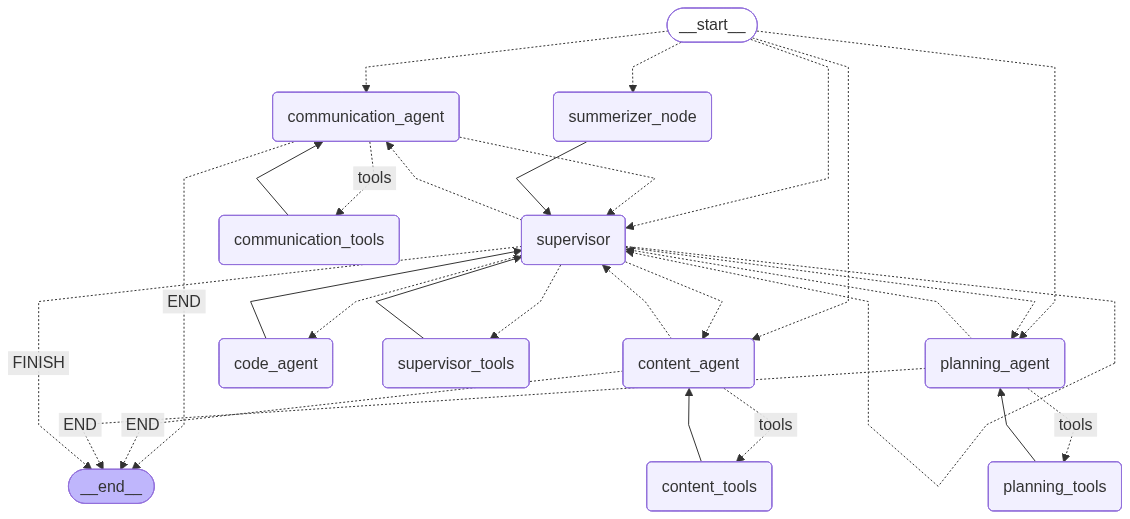
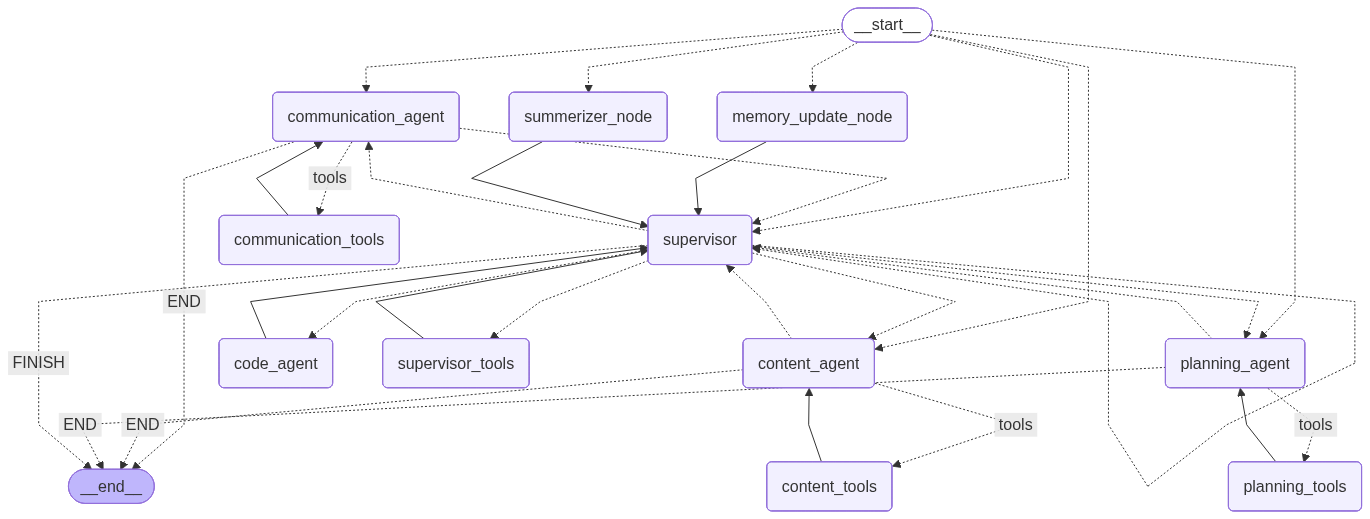
added the memory node while chat starts new day then this activates

diff --git a/core/state.py b/core/state.py
@@ -4,20 +4,16 @@ from pydantic import BaseModel, Field
 from typing_extensions import TypedDict
 from utils.helper import setup_logger, count_tokens
 import time
-import asyncio
+
 from config.settings import DEFAULT_THREAD_ID, MEMORY_DB
 
 logger = setup_logger(__name__)
 
 
-SECONDS_IN_DAY = 86400
-IST_OFFSET = 19800
-
-
 class State(TypedDict):
     messages: Annotated[list, add_messages]
     summary: Optional[str]
-    last_knowledgegraph_timestamp: Optional[float] = 1770195927.8211298
+    last_memory_timestamp: Optional[float] = 1770195927.8211298
     next: Optional[str]
 
 
@@ -74,6 +70,29 @@ def internal_agent_route(state: State) -> str:
 
 
 async def route_start(state: State) -> str:
+
+    last_memory_ts = state.get("last_memory_timestamp")
+
+    should_update_memory = False
+
+    if last_memory_ts is None:
+        logger.info("🆕 New Thread Detected: Initializing memory timestamp.")
+        should_update_memory = True
+    else:
+        now_float = time.time()
+        SECONDS_IN_DAY = 86400
+        IST_OFFSET = 19800
+
+        current_day_ist = int((now_float + IST_OFFSET) // SECONDS_IN_DAY)
+        memory_day_ist = int((last_memory_ts + IST_OFFSET) // SECONDS_IN_DAY)
+
+        if current_day_ist > memory_day_ist:
+            logger.info("📅 New Day Detected: Triggering memory optimization.")
+            should_update_memory = True
+
+    if should_update_memory:
+        return "memory_update_node"
+
     messages = state["messages"]
 
     if len(messages) < 2:
@@ -97,38 +116,6 @@ async def route_start(state: State) -> str:
                     "content_agent",
                 ]:
                     return agent_name
-
-    now_float = time.time()
-    messages = state.get("messages", [])
-    current_day_ist = int((now_float + IST_OFFSET) // SECONDS_IN_DAY)
-
-    # 1. Summary Cleanup Logic
-    last_sum_ts = state.get("last_summary_timestamp")
-    if last_sum_ts is not None:
-        summary_day_ist = int((last_sum_ts + IST_OFFSET) // SECONDS_IN_DAY)
-
-        if current_day_ist > summary_day_ist:
-            if count_tokens(messages[:-15]) > 500:
-                state["summary"] = ""
-                state["number_of_summaries_today"] = 0
-                state["last_summary_timestamp"] = now_float
-                logger.info("🗑️ Cleared old summary: New calendar date detected.")
-
-    # 2. Knowledge Graph Update Logic
-    last_kg_ts = state.get("last_knowledgegraph_timestamp")
-    if last_kg_ts is not None:
-        kg_day_ist = int((last_kg_ts + IST_OFFSET) // SECONDS_IN_DAY)
-
-        if current_day_ist > kg_day_ist:
-            logger.info(
-                "🔄 KnowledgeGraph Updating: Reconciling project data for new local date."
-            )
-            from core.agent import updation_knowledge_graph
-
-            await updation_knowledge_graph(
-                state=state, thread_id=DEFAULT_THREAD_ID, db_path=MEMORY_DB
-            )
-            state["last_knowledgegraph_timestamp"] = now_float
 
     if count_tokens(messages[:-15]) > 8000:
         return "summerizer_node"

diff --git a/utils/helper.py b/utils/helper.py
@@ -1,6 +1,5 @@
 import logging
 import sqlite3
-from config.settings import CHECKPOINT_DB
 import tiktoken
 from datetime import datetime
 from langgraph.checkpoint.sqlite.aio import AsyncSqliteSaver
@@ -8,6 +7,16 @@ import pytz
 
 import re
 import html
+import asyncio
+import aiosqlite
+import sys
+from pathlib import Path
+
+root = Path(__file__).parent.parent
+sys.path.insert(0, str(root))
+
+from config.settings import CHECKPOINT_DB
+from config.settings import DEFAULT_THREAD_ID
 
 
 def clean_email_body(text: str) -> str:
@@ -37,6 +46,36 @@ class AsyncSqliteSaver(AsyncSqliteSaver):
         """Save checkpoint with cleaned messages"""
 
         return await super().aput(config, checkpoint, metadata, new_versions)
+
+
+mock_tool_sets = {"communication": [], "planning": [], "content": [], "supervisor": []}
+
+
+async def get_agent_state(thread_id: str):
+    async with aiosqlite.connect(str(CHECKPOINT_DB)) as conn:
+        checkpointer = AsyncSqliteSaver(conn)
+
+        from core.graph import build_graph
+
+        graph = build_graph(mock_tool_sets, checkpointer)
+
+        config = {"configurable": {"thread_id": thread_id}}
+
+        snapshot = await graph.aget_state(config)
+
+        if not snapshot.values:
+            print("❌ No state found for this thread ID.")
+            return
+
+        values = snapshot.values
+        print("=" * 40)
+        print(f"📊 STATE FOR THREAD: {thread_id}")
+        print("=" * 40)
+        print(f"🕒 Last Memory Timestamp: {values.get('last_memory_timestamp')}")
+        print(f"🧠 Summary: {values.get('summary')}")
+        print(f"📨 Total Messages: {len(values.get('messages', []))}")
+        print(f"🔜 Next Step: {snapshot.next}")
+        print("=" * 40)
 
 
 def count_tokens(messages):
@@ -104,3 +143,7 @@ def delete_thread_from_db(thread_id: str):
 def get_current_time():
     now = datetime.now(pytz.timezone("Asia/Kolkata"))
     return now.strftime("%Y-%m-%d %H:%M:%S IST")
+
+
+if __name__ == "__main__":
+    asyncio.run(get_agent_state(DEFAULT_THREAD_ID))

diff --git a/core/agent.py b/core/agent.py
@@ -12,6 +12,7 @@ import aiosqlite
 from datetime import datetime
 import sys
 from pathlib import Path
+import time
 
 root = Path(__file__).parent.parent
 sys.path.append(str(root))
@@ -40,6 +41,7 @@ def agent_node_factory(llm_with_tools, system_prompt, agent_name: str):
 
         current_time = get_current_time()
 
+        logger.info("\n")
         logger.info("=" * 80)
         logger.info(f"🔄 LLM REQUEST #{request_num}")
         logger.info("=" * 80)
@@ -179,6 +181,30 @@ def agent_node_factory(llm_with_tools, system_prompt, agent_name: str):
     return agent_node
 
 
+def memory_node_factory():
+    async def memory_node(state: State):
+        import time
+        from core.agent import updation_knowledge_graph
+        from config.settings import DEFAULT_THREAD_ID, MEMORY_DB
+
+        now_float = time.time()
+
+        updates = {
+            "summary": "",
+            "number_of_summaries_today": 0,
+            "last_summary_timestamp": now_float,
+        }
+
+        await updation_knowledge_graph(
+            state=state, thread_id=DEFAULT_THREAD_ID, db_path=MEMORY_DB
+        )
+
+        updates["last_memory_timestamp"] = now_float
+        return updates
+
+    return memory_node
+
+
 def code_execution_factory(llm, tool_sets, agent_name: str):
     async def code_executor(state: State):
         current_time = get_current_time()  # system prompt should have this need to do
@@ -300,9 +326,14 @@ async def updation_knowledge_graph(
             f"Extracted candidates for KG update: {json.dumps(candidates_json, indent=2)}"
         )
 
-        entities = candidates_json.get("candidates", {}).get("entities", [])
-        if not entities:
+        if not candidates_json.get("candidates", {}).get(
+            "entities"
+        ) and not candidates_json.get("candidates", {}).get("relationships"):
+            logger.info(
+                "🔍 No valid entities or relationships found. Exiting update process."
+            )
             return
+        entities = candidates_json.get("candidates", {}).get("entities", [])
 
         types_df = kg.search_similar_node(entities)
 
@@ -346,6 +377,7 @@ async def updation_knowledge_graph(
                     relation_type=rel.get("relation_type", "unknown"),
                 )
         logger.info("✅ Knowledge graph update process completed successfully.")
+        kg.visualize()
 
     except Exception as e:
         logger.error(f"Knowledge graph update failed: {e}")

diff --git a/utils/memory_manager.py b/utils/memory_manager.py
@@ -1,4 +1,3 @@
-from core.llm import build_llm
 from langchain_core.messages import HumanMessage, AIMessage, ToolMessage, SystemMessage
 import aiosqlite
 from datetime import datetime
@@ -8,13 +7,30 @@ import os
 import sys
 from pathlib import Path
 
+
 root_dir = Path(__file__).parent.parent
 sys.path.insert(0, str(root_dir))
 
+from core import state
+from core.state import State
 from config.settings import MEMORY_DB
 from utils.helper import count_tokens, setup_logger
 
 logger = setup_logger(__name__)
+
+
+def AgentState(state: State):
+
+    if hasattr(state, "__annotations__"):
+        print("\n🔍 State Structure & Values:")
+        for key, dtype in state.__annotations__.items():
+            current_value = getattr(state, key, "Not Set")
+
+            print(
+                f"   - {key}: {dtype} = {datetime.fromtimestamp(current_value) if isinstance(current_value, float) else current_value}"
+            )
+
+    return state
 
 
 async def log_event(thread_id: str, actor: str, message: str, metadata: dict = None):
@@ -148,5 +164,6 @@ def sanitize_history(messages):
 
 if __name__ == "__main__":
     # Ensure the directory for the output file exists
-    os.makedirs("utils", exist_ok=True)
-    analyze_human_logs()
+    # os.makedirs("utils", exist_ok=True)
+    # analyze_human_logs()
+    AgentState(State)

diff --git a/core/graph.py b/core/graph.py
@@ -11,7 +11,12 @@ from config.prompts import (
     SUPERVISOR_SYSTEM_PROMPT,
     CONTENT_SYSTEM_PROMPT,
 )
-from core.agent import agent_node_factory, summerizer_node, code_execution_factory
+from core.agent import (
+    agent_node_factory,
+    summerizer_node,
+    code_execution_factory,
+    memory_node_factory,
+)
 from core.llm import build_llm_with_tools, build_llm
 from core.state import State, route_after_supervisor, internal_agent_route, route_start
 from utils.helper import request_counter, setup_logger
@@ -51,6 +56,8 @@ def build_graph(tool_sets, checkpointer):
         agent_name="code_agent",
     )
 
+    memory_update_node = memory_node_factory()
+
     async def supervisor_node(
         state: State,
         llm_with_tools=supervisor_llm,
@@ -62,6 +69,7 @@ def build_graph(tool_sets, checkpointer):
 
         current_time = get_current_time()
 
+        logger.info("\n")
         logger.info("=" * 80)
         logger.info(f"👮 SUPERVISOR REQUEST #{request_num}")
         logger.info("=" * 80)
@@ -224,9 +232,7 @@ def build_graph(tool_sets, checkpointer):
                     "messages": [agent_message],
                 }
 
-        # CASE C: Direct Reply (No Tools, No JSON)
-        # The Supervisor decided to answer the user directly
-        logger.info("🗣️ Supervisor responding directly")
+        # CASE C: The Supervisor decided to answer the user directly
         if (
             hasattr(response, "content")
             and response.content
@@ -291,6 +297,8 @@ def build_graph(tool_sets, checkpointer):
         ToolNode(tools=supervisor_tools, handle_tool_errors=True),
     )
 
+    builder.add_node("memory_update_node", memory_update_node)
+
     builder.add_conditional_edges(
         source=START,
         path=route_start,
@@ -299,11 +307,13 @@ def build_graph(tool_sets, checkpointer):
             "planning_agent": "planning_agent",
             "content_agent": "content_agent",
             "summerizer_node": "summerizer_node",
+            "memory_update_node": "memory_update_node",
             "supervisor": "supervisor",
         },
     )
 
     builder.add_edge("summerizer_node", "supervisor")
+    builder.add_edge("memory_update_node", "supervisor")
 
     builder.add_conditional_edges(
         "supervisor",

diff --git a/main.py b/main.py
@@ -74,6 +74,7 @@ async def main():
                 if not user_query:
                     continue
 
+                logger.info("\n")
                 logger.info(f"👤 User Query: {user_query}")
 
                 try: